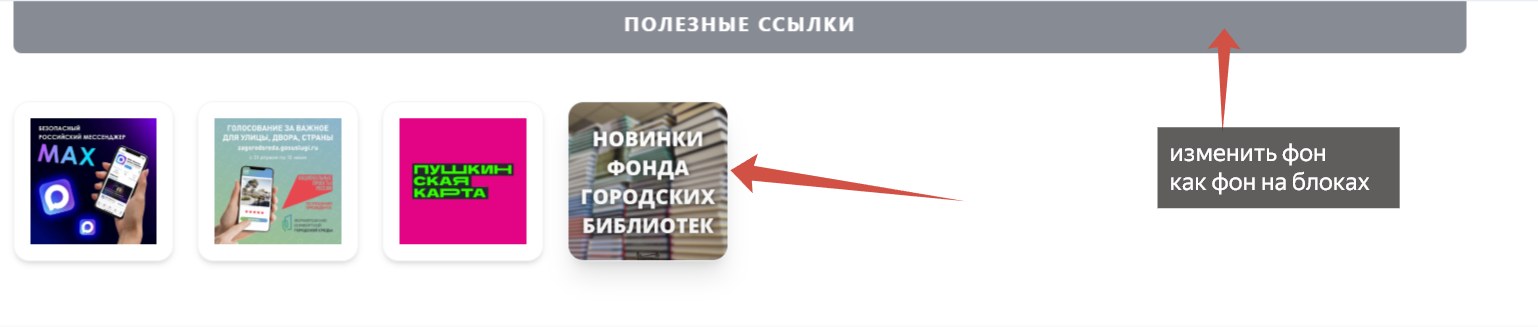
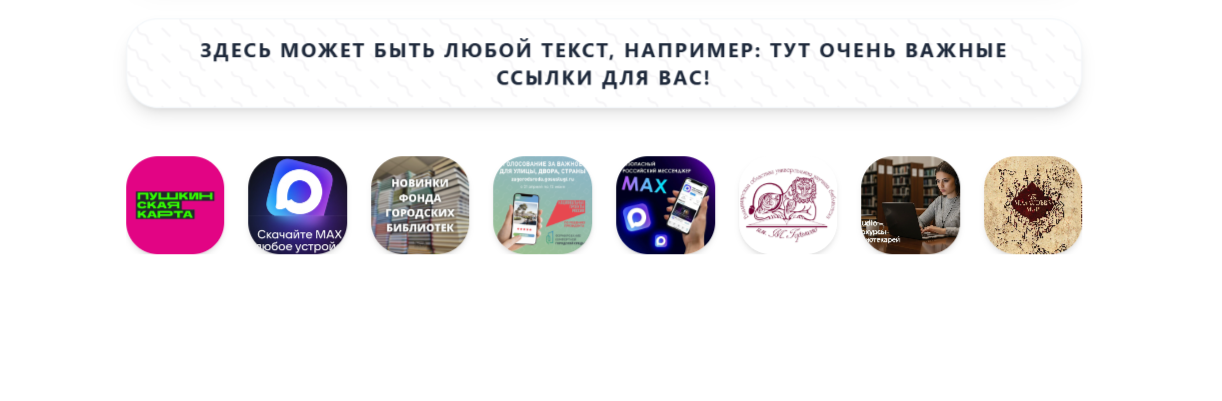
Add extensive theme customization options for Headers, Footers, Hero, Afisha, and Important Links
- **Functions:** Added new Customizer settings for Header styles (5 options), Menu styles (5 options), Footer styles (5 options), Hero alignment/opacity/size, Afisha card styles (5 options), and Important Link styles/radius.
- **Header:** Implemented logic for 'Centered', 'Minimal', 'Full Width', and 'Transparent Overlay' header layouts. Added CSS for menu styles (underline, pill, bracket, bold).
- **Hero:** Updated hero section to support text alignment (left, center, right), title size configuration, and adjustable overlay opacity.
- **Footer:** Implemented logic for 'Light Clean', 'Centered', 'Minimal', and 'Multi-Column' footer layouts.
- **Afisha:** Added support for 'Card', 'Clean', 'Overlay', and 'Glass' themes for event cards.
- **Important Section:** Added support for configuring link image border radius (square, small, medium, circle) and visual styles (shadow, border, grayscale).

diff --git a/wp-content/themes/city-library/header.php b/wp-content/themes/city-library/header.php
@@ -9,9 +9,47 @@
 <?php wp_body_open(); ?>
 <a class="sr-only focus:not-sr-only focus:absolute focus:z-[100] focus:p-4 focus:bg-white focus:text-primary transition-all" href="#primary"><?php esc_html_e( 'Перейти к основному содержимому', 'city-library' ); ?></a>
 
-<header id="masthead" class="hidden lg:block fixed top-0 w-full z-50 bg-white/60 backdrop-blur-md border-b border-slate-200 hover:bg-white transition-colors duration-300 group">
-    <div class="w-full px-4 sm:px-6 lg:px-8">
-        <div class="flex justify-between items-center h-20">
+<?php
+$header_style = get_theme_mod('header_style', 'default');
+$menu_style = get_theme_mod('menu_style', 'default');
+
+$header_classes = 'hidden lg:block fixed top-0 w-full z-50 bg-white/60 backdrop-blur-md border-b border-slate-200 hover:bg-white transition-colors duration-300 group';
+$container_classes = 'w-full px-4 sm:px-6 lg:px-8';
+$flex_classes = 'flex justify-between items-center h-20';
+
+// Header Style Logic
+if ($header_style === 'centered') {
+    $flex_classes = 'flex flex-col justify-center items-center h-auto py-4 space-y-4';
+} elseif ($header_style === 'minimal') {
+    // Logic handled in layout structure below (nav hidden)
+} elseif ($header_style === 'full-width') {
+    $container_classes = 'w-full px-0';
+} elseif ($header_style === 'transparent-overlay') {
+    $header_classes = 'hidden lg:block absolute top-0 w-full z-50 bg-transparent border-b border-white/10 hover:bg-white/90 transition-all duration-300 group hover:text-slate-900 text-white';
+}
+
+// Menu Style Classes
+$menu_item_classes = 'menu-style-' . $menu_style;
+?>
+<style>
+/* Menu Styles */
+.menu-style-underline a { position: relative; }
+.menu-style-underline a::after { content: ''; position: absolute; bottom: -2px; left: 0; width: 0; height: 2px; background: currentColor; transition: width 0.3s; }
+.menu-style-underline a:hover::after { width: 100%; }
+
+.menu-style-pill a { padding: 0.5rem 1rem; border-radius: 9999px; transition: background 0.3s, color 0.3s; }
+.menu-style-pill a:hover { background: var(--primary-color); color: white !important; }
+
+.menu-style-bracket a::before { content: '['; opacity: 0; margin-right: 5px; transition: opacity 0.3s, transform 0.3s; transform: translateX(5px); }
+.menu-style-bracket a::after { content: ']'; opacity: 0; margin-left: 5px; transition: opacity 0.3s, transform 0.3s; transform: translateX(-5px); }
+.menu-style-bracket a:hover::before, .menu-style-bracket a:hover::after { opacity: 1; transform: translateX(0); }
+
+.menu-style-bold a:hover { font-weight: 800; }
+</style>
+
+<header id="masthead" class="<?php echo esc_attr($header_classes); ?>">
+    <div class="<?php echo esc_attr($container_classes); ?>">
+        <div class="<?php echo esc_attr($flex_classes); ?>">
             <div class="flex items-center space-x-3 h-full py-2">
                 <!-- Mobile Hamburger Button -->
                 <button id="mobile-menu-btn" class="lg:hidden p-2 -ml-2 bg-white text-slate-800 hover:text-primary transition-all shadow-sm rounded-full border border-slate-200" aria-label="<?php esc_attr_e('Открыть меню', 'city-library'); ?>" aria-controls="mobile-menu" aria-expanded="false">
@@ -33,7 +71,8 @@
                 </div>
             </div>
 
-            <nav class="hidden lg:landscape:flex items-center space-x-8">
+            <?php if ($header_style !== 'minimal') : ?>
+            <nav class="hidden lg:landscape:flex items-center space-x-8 <?php echo esc_attr($menu_item_classes); ?>">
                  <?php
                     wp_nav_menu(array(
                         'theme_location' => 'primary',
@@ -43,6 +82,7 @@
                     ));
                 ?>
             </nav>
+            <?php endif; ?>
 
             <div class="flex items-center space-x-2">
                 <button id="search-toggle" class="p-2 rounded-full transition-colors shadow-sm border border-slate-200" aria-label="<?php esc_attr_e('Поиск', 'city-library'); ?>" style="background-color: #ffffff !important; color: #000000 !important;">
@@ -51,6 +91,11 @@
                 <button id="accessibility-button" class="p-2 rounded-full transition-colors shadow-sm border border-slate-200" aria-label="<?php esc_attr_e('Настройки доступности', 'city-library'); ?>" style="background-color: #ffffff !important; color: #000000 !important;">
                     <span class="material-symbols-outlined">visibility</span>
                 </button>
+                <?php if ($header_style === 'minimal') : ?>
+                <button id="desktop-menu-btn" class="p-2 rounded-full transition-colors shadow-sm border border-slate-200 ml-2" aria-label="<?php esc_attr_e('Меню', 'city-library'); ?>" onclick="document.getElementById('mobile-menu').classList.remove('translate-x-full')">
+                    <span class="material-symbols-outlined">menu</span>
+                </button>
+                <?php endif; ?>
             </div>
         </div>
     </div>
@@ -87,11 +132,20 @@
 <?php if (get_theme_mod('show_hero_section', true)) : ?>
 <?php
     $hero_color = get_theme_mod('hero_overlay_color', '#1a3c34');
+    $hero_opacity = get_theme_mod('hero_bg_opacity', '0.5');
     list($r, $g, $b) = sscanf($hero_color, "#%02x%02x%02x");
-    $hero_gradient = "linear-gradient(rgba($r, $g, $b, 0.7), rgba($r, $g, $b, 0.85))";
+    // Use opacity control for overlay strength
+    $hero_gradient = "linear-gradient(rgba($r, $g, $b, $hero_opacity), rgba($r, $g, $b, $hero_opacity))";
+
+    $hero_align = get_theme_mod('hero_align', 'center');
+    $hero_text_align_class = 'text-' . $hero_align;
+    $hero_flex_align_class = ($hero_align === 'left') ? 'items-start justify-start text-left' : (($hero_align === 'right') ? 'items-end justify-end text-right' : 'items-center justify-center text-center');
+    $hero_mx_class = ($hero_align === 'left' || $hero_align === 'right') ? 'mx-0' : 'mx-auto';
+
+    $hero_title_size = get_theme_mod('hero_title_size', 'text-5xl md:text-7xl lg:text-8xl');
 ?>
-<section class="relative h-screen flex items-center justify-center hero-gradient lg:pt-20" style="background-image: <?php echo $hero_gradient; ?>, url('<?php echo esc_url(get_theme_mod('hero_background_image', get_template_directory_uri() . '/images/hero-bg.jpg')); ?>'); background-size: cover; background-position: center;">
-    <div class="max-w-4xl mx-auto text-center px-4 space-y-8">
+<section class="relative h-screen flex <?php echo esc_attr($hero_flex_align_class); ?> hero-gradient lg:pt-20" style="background-image: <?php echo $hero_gradient; ?>, url('<?php echo esc_url(get_theme_mod('hero_background_image', get_template_directory_uri() . '/images/hero-bg.jpg')); ?>'); background-size: cover; background-position: center;">
+    <div class="max-w-4xl <?php echo esc_attr($hero_mx_class); ?> px-4 space-y-8 w-full">
         <?php if (get_theme_mod('hero_show_badge', true)) : ?>
         <div class="inline-flex items-center bg-white/10 backdrop-blur-md px-4 py-2 rounded-full border border-white/20 animate-fade-in-up">
             <span class="w-2 h-2 bg-primary rounded-full mr-3 animate-pulse"></span>
@@ -99,15 +153,15 @@
         </div>
         <?php endif; ?>
 
-        <h1 class="text-5xl md:text-7xl lg:text-8xl font-display font-bold text-white leading-tight animate-fade-in-up delay-100">
+        <h1 class="<?php echo esc_attr($hero_title_size); ?> font-display font-bold text-white leading-tight animate-fade-in-up delay-100">
             <?php echo wp_kses_post(get_theme_mod('hero_title', 'Твой мир, <span class="text-primary italic text-glow">Твоя</span> <br/>библиотека')); ?>
         </h1>
 
-        <p class="text-lg md:text-xl text-slate-200 max-w-2xl mx-auto font-light leading-relaxed animate-fade-in-up delay-200">
+        <p class="text-lg md:text-xl text-slate-200 max-w-2xl <?php echo esc_attr($hero_mx_class); ?> font-light leading-relaxed animate-fade-in-up delay-200">
             <?php echo esc_html(get_theme_mod('hero_subtitle', 'Центральная городская библиотека — пространство для открытий, творчества и вдохновения. Мы объединяем традиции и современные технологии.')); ?>
         </p>
 
-        <div class="flex flex-col sm:flex-row items-center justify-center gap-4 pt-4 <?php echo city_library_get_animation_class(); ?>">
+        <div class="flex flex-col sm:flex-row <?php echo esc_attr($hero_flex_align_class); ?> gap-4 pt-4 <?php echo city_library_get_animation_class(); ?>">
             <a id="hero-primary-btn" class="w-full sm:w-auto px-6 py-3 sm:px-8 sm:py-4 bg-primary hover:bg-yellow-600 text-slate-900 font-bold rounded-full transition-all flex items-center justify-center space-x-2 shadow-lg shadow-primary/20 text-center" href="<?php echo esc_url(get_theme_mod('hero_primary_button_link', '#events')); ?>">
                 <span class="material-symbols-outlined text-xl shrink-0">event</span>
                 <span class="whitespace-normal sm:whitespace-nowrap"><?php echo esc_html(get_theme_mod('hero_primary_button_text', 'АФИША МЕРОПРИЯТИЙ')); ?></span>

diff --git a/wp-content/themes/city-library/functions.php b/wp-content/themes/city-library/functions.php
@@ -498,6 +498,36 @@ function city_library_customize_register($wp_customize) {
         'priority' => 20,
     ));
 
+    // Header Style
+    $wp_customize->add_setting('header_style', array('default' => 'default', 'sanitize_callback' => 'sanitize_text_field'));
+    $wp_customize->add_control('header_style', array(
+        'label' => __('Стиль шапки (Header Style)', 'city-library'),
+        'section' => 'header_section',
+        'type' => 'select',
+        'choices' => array(
+            'default' => 'Default (Left Logo, Right Menu)',
+            'centered' => 'Centered (Logo Top, Menu Bottom)',
+            'minimal' => 'Minimal (Logo Left, Menu Hidden/Hamburger)',
+            'full-width' => 'Full Width (No Container)',
+            'transparent-overlay' => 'Transparent Overlay (Absolute)',
+        ),
+    ));
+
+    // Menu Style
+    $wp_customize->add_setting('menu_style', array('default' => 'default', 'sanitize_callback' => 'sanitize_text_field'));
+    $wp_customize->add_control('menu_style', array(
+        'label' => __('Стиль меню (Menu Style)', 'city-library'),
+        'section' => 'header_section',
+        'type' => 'select',
+        'choices' => array(
+            'default' => 'Default (Simple Hover)',
+            'underline' => 'Underline Animation',
+            'pill' => 'Pill Background',
+            'bracket' => 'Brackets [ Link ]',
+            'bold' => 'Bold on Hover',
+        ),
+    ));
+
     $wp_customize->add_setting('header_bg_color', array('default' => '#ffffff', 'sanitize_callback' => 'sanitize_hex_color'));
     $wp_customize->add_control(new WP_Customize_Color_Control($wp_customize, 'header_bg_color', array(
         'label' => __('Цвет фона шапки', 'city-library'), 'section' => 'header_section',
@@ -575,8 +605,50 @@ function city_library_customize_register($wp_customize) {
         'section' => 'hero_section',
     )));
 
+    $wp_customize->add_setting('hero_bg_opacity', array('default' => '0.5', 'sanitize_callback' => 'sanitize_text_field'));
+    $wp_customize->add_control('hero_bg_opacity', array(
+        'label' => __('Прозрачность наложения (Overlay Opacity)', 'city-library'),
+        'section' => 'hero_section',
+        'type' => 'range',
+        'input_attrs' => array('min' => 0, 'max' => 1, 'step' => 0.1),
+    ));
+
+    $wp_customize->add_setting('hero_align', array('default' => 'center', 'sanitize_callback' => 'sanitize_text_field'));
+    $wp_customize->add_control('hero_align', array(
+        'label' => __('Выравнивание текста (Alignment)', 'city-library'),
+        'section' => 'hero_section',
+        'type' => 'select',
+        'choices' => array('left' => 'Left', 'center' => 'Center', 'right' => 'Right'),
+    ));
+
+    $wp_customize->add_setting('hero_title_size', array('default' => 'text-5xl md:text-7xl lg:text-8xl', 'sanitize_callback' => 'sanitize_text_field'));
+    $wp_customize->add_control('hero_title_size', array(
+        'label' => __('Размер заголовка (Title Size)', 'city-library'),
+        'section' => 'hero_section',
+        'type' => 'select',
+        'choices' => array(
+            'text-4xl md:text-6xl lg:text-7xl' => 'Small',
+            'text-5xl md:text-7xl lg:text-8xl' => 'Medium (Default)',
+            'text-6xl md:text-8xl lg:text-9xl' => 'Large',
+        ),
+    ));
+
     // Footer Section
     $wp_customize->add_section('footer_section', array('title' => __('Footer', 'city-library'), 'priority' => 120));
+
+    $wp_customize->add_setting('footer_style', array('default' => 'default', 'sanitize_callback' => 'sanitize_text_field'));
+    $wp_customize->add_control('footer_style', array(
+        'label' => __('Стиль футера (Footer Style)', 'city-library'),
+        'section' => 'footer_section',
+        'type' => 'select',
+        'choices' => array(
+            'default' => 'Default (Dark Simple)',
+            'light-clean' => 'Light Clean (White BG)',
+            'centered' => 'Centered Layout',
+            'multi-column' => 'Multi-Column (Grid)',
+            'minimal' => 'Minimal (Copyright Only)',
+        ),
+    ));
 
     $wp_customize->add_setting('footer_copyright', array('default' => '© 2024 Центральная городская библиотека. Все права защищены.', 'sanitize_callback' => 'sanitize_text_field'));
     $wp_customize->add_control('footer_copyright', array('label' => __('Copyright Text', 'city-library'), 'section' => 'footer_section', 'type' => 'text'));
@@ -788,6 +860,20 @@ function city_library_customize_register($wp_customize) {
         ),
     ));
 
+    $wp_customize->add_setting('afisha_card_style', array('default' => 'default', 'sanitize_callback' => 'sanitize_text_field'));
+    $wp_customize->add_control('afisha_card_style', array(
+        'label' => __('Стиль карточек слайдера (Card Style)', 'city-library'),
+        'section' => 'afisha_section',
+        'type' => 'select',
+        'choices' => array(
+            'default' => 'Default (Rounded, Shadow)',
+            'card' => 'Classic Card (White Border)',
+            'clean' => 'Clean (No Shadow, Minimal)',
+            'overlay' => 'Full Overlay (Text on Image)',
+            'glass' => 'Glassmorphism (Blur)',
+        ),
+    ));
+
     $wp_customize->add_setting('afisha_font_family', array('default' => 'Inter', 'sanitize_callback' => 'sanitize_text_field'));
     $wp_customize->add_control('afisha_font_family', array(
         'label' => __('Шрифт заголовка афиши', 'city-library'),
@@ -849,6 +935,32 @@ function city_library_customize_register($wp_customize) {
 
     $wp_customize->add_setting('important_inter_block_text', array('default' => '', 'sanitize_callback' => 'sanitize_textarea_field'));
     $wp_customize->add_control('important_inter_block_text', array('label' => __('Текст между блоками', 'city-library'), 'section' => 'important_section', 'type' => 'textarea'));
+
+    $wp_customize->add_setting('important_link_radius', array('default' => 'medium', 'sanitize_callback' => 'sanitize_text_field'));
+    $wp_customize->add_control('important_link_radius', array(
+        'label' => __('Скругление изображений ссылок', 'city-library'),
+        'section' => 'important_section',
+        'type' => 'select',
+        'choices' => array(
+            'none' => 'Square (None)',
+            'small' => 'Small',
+            'medium' => 'Medium (Default)',
+            'full' => 'Circle (Full)',
+        ),
+    ));
+
+    $wp_customize->add_setting('important_link_style', array('default' => 'default', 'sanitize_callback' => 'sanitize_text_field'));
+    $wp_customize->add_control('important_link_style', array(
+        'label' => __('Стиль изображений ссылок', 'city-library'),
+        'section' => 'important_section',
+        'type' => 'select',
+        'choices' => array(
+            'default' => 'Default (Simple)',
+            'shadow' => 'Drop Shadow',
+            'border' => 'Bordered',
+            'grayscale' => 'Grayscale Hover',
+        ),
+    ));
 
     // Important Section Links (8 items)
     for ($i = 1; $i <= 8; $i++) {

diff --git a/wp-content/themes/city-library/template-parts/section-afisha.php b/wp-content/themes/city-library/template-parts/section-afisha.php
@@ -37,6 +37,7 @@ if (empty($events)) {
 
 $section_title = get_theme_mod('afisha_title', 'Афиша Мероприятий');
 $bg_style = get_theme_mod('afisha_bg_style', 'default');
+$card_style = get_theme_mod('afisha_card_style', 'default');
 
 // Container Styles - Adaptive: Full width on mobile but with internal padding, rounded on desktop
 $container_classes = "bg-white relative overflow-hidden transition-all duration-500";
@@ -46,6 +47,22 @@ if ($bg_style === 'gradient') {
     $container_classes = "bg-gradient-to-br from-indigo-900 via-purple-900 to-slate-900 text-white relative overflow-hidden shadow-2xl border border-white/10";
     $bg_overlay = '<div class="absolute inset-0 bg-[url(\'https://www.transparenttextures.com/patterns/cubes.png\')] opacity-10 pointer-events-none mix-blend-overlay"></div>';
 }
+
+// Card Style Logic
+$card_base_classes = 'relative h-[400px] md:h-[500px] w-full overflow-hidden transition-all duration-500 bg-slate-100 select-none group-hover:scale-[1.02] transform-gpu';
+$card_extra_classes = 'rounded-[2rem] shadow-lg hover:shadow-2xl hover:shadow-slate-900/20 border border-slate-200'; // Default
+
+if ($card_style === 'card') {
+    $card_extra_classes = 'rounded-xl shadow-md hover:shadow-xl border-4 border-white';
+} elseif ($card_style === 'clean') {
+    $card_extra_classes = 'rounded-3xl border border-slate-100'; // No shadow
+} elseif ($card_style === 'overlay') {
+    $card_extra_classes = 'rounded-none shadow-none border-0'; // Flat
+} elseif ($card_style === 'glass') {
+    $card_extra_classes = 'rounded-[2rem] shadow-xl border border-white/30 backdrop-blur-sm bg-white/10';
+}
+
+$card_classes = $card_base_classes . ' ' . $card_extra_classes;
 ?>
 
 <section id="afisha" class="py-12 lg:py-24 bg-white overflow-hidden <?php echo city_library_get_animation_class(); ?>">
@@ -103,7 +120,7 @@ if ($bg_style === 'gradient') {
                                  tabindex="0"
                                  aria-label="<?php echo esc_attr($event['title']); ?>">
 
-                                <div class="relative h-[400px] md:h-[500px] w-full rounded-[2rem] overflow-hidden shadow-lg hover:shadow-2xl hover:shadow-slate-900/20 transition-all duration-500 bg-slate-100 select-none border border-slate-200 group-hover:scale-[1.02] transform-gpu">
+                                <div class="<?php echo esc_attr($card_classes); ?>">
 
                                     <!-- Image -->
                                     <?php if ($event['image']) : ?>

diff --git a/wp-content/themes/city-library/template-parts/section-important.php b/wp-content/themes/city-library/template-parts/section-important.php
@@ -13,6 +13,22 @@ $btn_text = get_theme_mod('important_btn_text', __('Подробнее', 'city-l
 $btn_link = get_theme_mod('important_btn_link', '#');
 // $bg_color is unused now as we enforce standardized style
 $inter_block_text = get_theme_mod('important_inter_block_text', '');
+
+$link_radius = get_theme_mod('important_link_radius', 'medium');
+$link_style = get_theme_mod('important_link_style', 'default');
+
+// Link Image Styles
+$link_radius_class = 'rounded-2xl'; // medium
+if ($link_radius === 'none') $link_radius_class = 'rounded-none';
+if ($link_radius === 'small') $link_radius_class = 'rounded-lg';
+if ($link_radius === 'full') $link_radius_class = 'rounded-full';
+
+$link_style_class = 'shadow-md hover:shadow-xl'; // default
+if ($link_style === 'shadow') $link_style_class = 'shadow-xl hover:shadow-2xl hover:-translate-y-1';
+if ($link_style === 'border') $link_style_class = 'border-2 border-slate-200 hover:border-primary shadow-sm';
+if ($link_style === 'grayscale') $link_style_class = 'grayscale hover:grayscale-0 shadow-md';
+
+$link_wrapper_class = "block group relative overflow-hidden transition-all duration-300 aspect-square $link_radius_class $link_style_class";
 ?>
 
 <section class="py-16 bg-white <?php echo city_library_get_animation_class(); ?>">
@@ -82,7 +98,7 @@ $inter_block_text = get_theme_mod('important_inter_block_text', '');
                         if (!$img) continue;
                     ?>
                         <div class="swiper-slide h-auto">
-                            <a href="<?php echo esc_url($url); ?>" class="block group relative rounded-2xl overflow-hidden shadow-md hover:shadow-xl transition-all duration-300 aspect-square">
+                            <a href="<?php echo esc_url($url); ?>" class="<?php echo esc_attr($link_wrapper_class); ?>">
                                 <img src="<?php echo esc_url($img); ?>" alt="<?php echo esc_attr("Link $i"); ?>" class="w-full h-full object-cover transition-transform duration-500 group-hover:scale-110">
                             </a>
                         </div>

diff --git a/wp-content/themes/city-library/footer.php b/wp-content/themes/city-library/footer.php
@@ -5,10 +5,31 @@ if (get_theme_mod('show_partners_section', true)) {
 }
 ?>
 
-<footer class="bg-slate-100 text-slate-900 py-16 bg-pattern-white <?php echo city_library_get_animation_class(); ?>" style="background-color: <?php echo esc_attr(get_theme_mod('footer_bg_color', '#F1F5F9')); ?>; color: <?php echo esc_attr(get_theme_mod('footer_text_color', '#0F172A')); ?>;">
+<?php
+$footer_style = get_theme_mod('footer_style', 'default');
+$footer_classes = 'bg-slate-100 text-slate-900 py-16 bg-pattern-white ' . city_library_get_animation_class();
+$footer_grid_classes = 'grid grid-cols-1 md:grid-cols-2 lg:grid-cols-4 gap-12';
+$footer_container_classes = 'w-full max-w-[80%] mx-auto px-4 sm:px-6 lg:px-8';
+
+// Footer Style Logic
+if ($footer_style === 'light-clean') {
+    $footer_classes = 'bg-white text-slate-700 py-12 border-t border-slate-100';
+} elseif ($footer_style === 'centered') {
+    $footer_classes = 'bg-slate-900 text-white py-20 text-center';
+    $footer_grid_classes = 'flex flex-col items-center gap-10 max-w-3xl mx-auto';
+    $footer_container_classes = 'w-full px-4';
+} elseif ($footer_style === 'minimal') {
+    $footer_classes = 'bg-white text-slate-500 py-8 border-t border-slate-200 text-sm';
+    $footer_grid_classes = 'hidden'; // Hide widgets
+} elseif ($footer_style === 'multi-column') {
+    $footer_grid_classes = 'grid grid-cols-2 md:grid-cols-3 lg:grid-cols-5 gap-8';
+}
+?>
+
+<footer class="<?php echo esc_attr($footer_classes); ?>" style="<?php if ($footer_style === 'default') { echo 'background-color: ' . esc_attr(get_theme_mod('footer_bg_color', '#F1F5F9')) . '; color: ' . esc_attr(get_theme_mod('footer_text_color', '#0F172A')) . ';'; } ?>">
 
     <!-- Width Correction: 80% to match other blocks -->
-    <div class="w-full max-w-[80%] mx-auto px-4 sm:px-6 lg:px-8 grid grid-cols-1 md:grid-cols-2 lg:grid-cols-4 gap-12">
+    <div class="<?php echo esc_attr($footer_container_classes); ?> <?php echo esc_attr($footer_grid_classes); ?>">
 
         <!-- Custom Footer Content / Widget 1 -->
         <div class="footer-column space-y-6">
